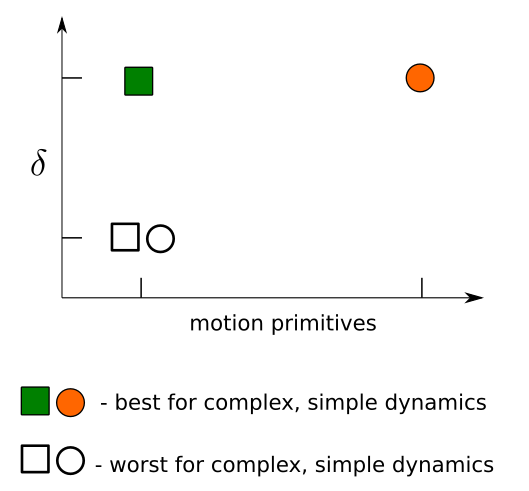
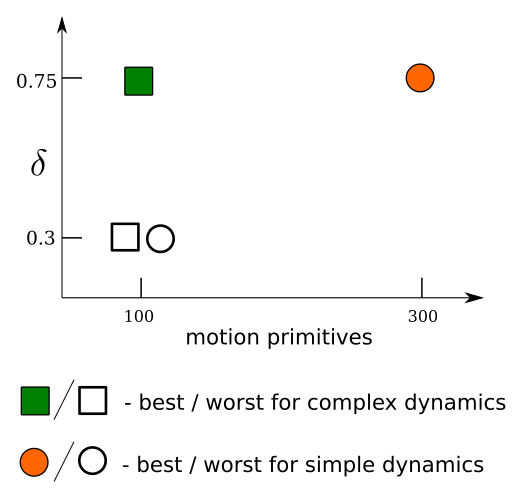
change add materials

diff --git a/phd-defense.md b/phd-defense.md
@@ -854,15 +854,12 @@ Platforms: 10 Sanity drones, 4 Polulu robots with attached trailers.
 ```
 # db-LaCAM: Limitations {#preview}
 
- - Tight environments can cause livelocks
+
+- Struggles with instances with narrow passes
 
 ```{=html}
 <video data-autoplay loop muted playsinline src="media/video/phd-defense/livelock-dblacam.mp4" width="100%"></video>
 ```
-
-. . . 
-
-- Struggles with instances with narrow passes
 
 
 # Conclusion
@@ -1109,6 +1106,38 @@ Hartmann, Andreas Orthey, Danny Driess, Ozgur S. Oguz, Marc Toussaint. IEEE T-RO
 - Landing for charging
 - Object transportation
 
+
+# db-ECBS with Omnidirectional Vision {#preview}vs.
+
+- Outdoor deployment
+- No localization (except for starting state)
+- Offline motion planning &rarr; Execution stage
+
+. . . 
+
+![](media/image/phd-defense/additional-material/dbecbs-with-vision1.png)
+
+
+# db-ECBS with Omnidirectional Vision {#preview}
+
+
+::: {.r-stack}
+
+:::{.element: class="fragment current-visible"}
+![](media/image/phd-defense/additional-material/dbecbs-with-vision1.png)
+
+::::
+:::{.element: class="fragment current-visible"}
+![](media/image/phd-defense/additional-material/dbecbs-with-vision2.png)
+
+:::: 
+:::{.element: class="fragment"}
+![](media/image/phd-defense/additional-material/dbecbs-with-vision3.png)
+::::
+:::
+
+
+
 # Hyperparameters for db-ECBS motion planner {#preview}
 
 <img src="media/image/phd-defense/additional-material/varying-delta-analysis.png" width="60%">
@@ -1197,7 +1226,7 @@ db-CBS
 ::::
 
 - f = g (cost-to-come) + h (<span style="color: green;">cost-to-go</span> )
-- Discrete search runtime is 5.9 s (average)
+- Discrete search runtime is 50.8 s (average)
 <img src="media/image/phd-defense/additional-material/dbcbs-discrete-1.png" width="100%">
 
 :::
@@ -1210,7 +1239,7 @@ db-ECBS
 ::::
 
 - f = g (cost-to-come) + h (<span style="color: green;">collisions</span> )
--  Discrete search runtime is 50.8 s (average)
+-  Discrete search runtime is 5.9 s (average)
 <img src="media/image/phd-defense/additional-material/dbecbs-discrete-1.png" width="100%">
 
 :::
@@ -1233,7 +1262,8 @@ $\mathbf{\psi}^{(i)}(\cdot)$ - additional disturbance force.
 
 . . .
 
-- Create constraints from <span style="color: orange;">inter-robot interactions</span>, beyond collisions during the discrete search
+- Create constraints from <span style="color: orange;">inter-robot interactions</span>, beyond inter-robot collisions
+
 
 # db-PIBT with Interaction Awareness
 
@@ -1241,36 +1271,9 @@ $\mathbf{\psi}^{(i)}(\cdot)$ - additional disturbance force.
 
 - No need to alter the robot's state
 
-- While rolling out motions, check each state for <span style="color: orange;">inter-robot interactions</span>, beyond collisions.
-
-# db-ECBS with Omnidirectional Vision {#preview}
-
-- Outdoor deployment
-- No localization (except for starting state)
-- Offline motion planning &rarr; Execution stage
-
-. . . 
-
-![](media/image/phd-defense/additional-material/dbecbs-with-vision1.png)
+- While rolling out motions, check each state for <span style="color: orange;">inter-robot interactions</span>, beyond collisions 
 
 
-# db-ECBS with Omnidirectional Vision {#preview}
-
-
-::: {.r-stack}
-
-:::{.element: class="fragment current-visible"}
-![](media/image/phd-defense/additional-material/dbecbs-with-vision1.png)
-
-::::
-:::{.element: class="fragment current-visible"}
-![](media/image/phd-defense/additional-material/dbecbs-with-vision2.png)
-
-:::: 
-:::{.element: class="fragment"}
-![](media/image/phd-defense/additional-material/dbecbs-with-vision3.png)
-::::
-:::
 
 
 # Fixing the discontinuity {#preview}
